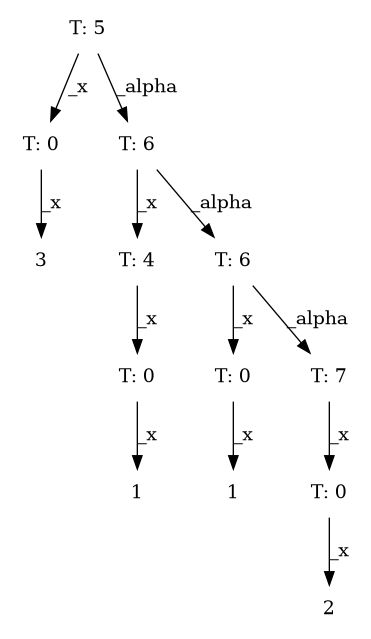
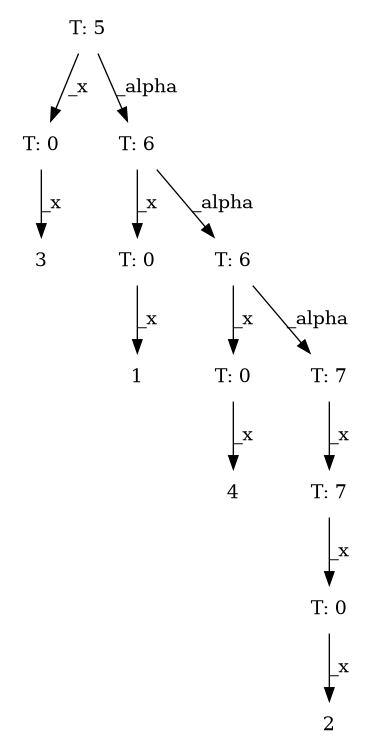
post .git errors. I believe I had just set up structure for the tree constant optimization step. need a new evolution based function that allows the optimization step to follow its own procedure and produce its own survival threshold. this should be possible ripping functionality directly from my pa

diff --git a/src/genetic_algorithm/mutation.py b/src/genetic_algorithm/mutation.py
@@ -3,6 +3,7 @@
 '''
 
 import genetic_algorithm.transforms as transforms
+import genetic_algorithm.population as population
 import genetic_algorithm.evaluation as evaluation
 import genetic_algorithm.visualization as visualization
 
@@ -26,6 +27,9 @@ def branch_ntimes(
 def quarter_forest_evolution(
 	init_forest	:	np.ndarray,
 	x_raw		:	np.ndarray,
+	tree_optim	:	bool	=	True,
+	limit_const_optim	:	bool = False,	
+	const_optim_maxiter	:	int	=	10,
 	iterations	:	int	=	5
 ):
 	
@@ -39,11 +43,25 @@ def quarter_forest_evolution(
 
 	print('entering preloop')
 	iter_forest:list = init_forest
+	chld_forest:list = []
+
 
 	f_size = len(iter_forest)
 	q_size = int(np.floor(f_size/4))
 
+
 	for i in range(iterations):
+
+		if(tree_optim):
+			it = -1
+			if(limit_const_optim):
+				it = const_optim_maxiter
+			chld_forest = optimize_constants(population=chld_forest, iterations=it)
+
+		#bring offspring over to iterating forest
+		for tree in chld_forest:
+			iter_forest.append(tree)
+		chld_forest = []
 
 		p_gen = transforms.forest2features(iter_forest, x_raw)
 		p = pd.DataFrame(p_gen)
@@ -56,24 +74,21 @@ def quarter_forest_evolution(
 		img = visualization.visualize_tree(iter_forest[p_treelist[0]])
 		display(img)
 
-		#identify trees to be kept
-		while(len(p_treelist) > q_size):
-			p_treelist.pop()
+		ordered_forest, ordered_scores = population.sort_forest(iter_forest, p_treelist, p_scorelist)
+		iter_forest = ordered_forest
+		prll_scores = ordered_scores
 
-		#pop all trees not in kept treelist
-		quarter_trees = set(p_treelist)
-		crnt_forest_size = len(iter_forest)
-		for k in range(crnt_forest_size-1,-1,-1):
-			if k not in quarter_trees:
-				iter_forest.pop(k)
+		#identify trees to be kept
+		while(len(iter_forest) > q_size):
+			iter_forest.pop()
 
 		print('popped all lists, adding all children')
 		if(i<iterations-1):
 			#make 3 children for each surviving tree
 			for j in range(q_size):
 
-				for three in [0,1,2]:
-					iter_forest.append(
+				for three_offspring in [0,1,2]:
+					chld_forest.append(
 						branch_ntimes(
 							copy.deepcopy(iter_forest[j]), 
 							int(-np.ceil(np.log(random.random())))
@@ -82,3 +97,16 @@ def quarter_forest_evolution(
 
 	return iter_forest
 		
+
+def optimize_constants(
+	population	:	list,
+	iterations	:	int	=	-1
+)	->	list:
+	
+
+
+
+
+
+
+	return

diff --git a/src/genetic_algorithm/evaluation.py b/src/genetic_algorithm/evaluation.py
@@ -123,11 +123,10 @@ def evaluate_forest(
 	eval_score_list  = []
 	for key in scores_df.index:
 		combined_score = scores_df.loc[key, 'combined']
-		if(combined_score>0):
-			idx = int(key.split('_')[1])
-			if (idx not in feature_idx_list):
-				feature_idx_list.append(idx)
-				eval_score_list.append(combined_score)
+		idx = int(key.split('_')[1])
+		if (idx not in feature_idx_list):
+			feature_idx_list.append(idx)
+			eval_score_list.append(combined_score)
 
 	# 6) identify best signals
 	best_signals = {

diff --git a/src/genetic_algorithm/population.py b/src/genetic_algorithm/population.py
@@ -1,4 +1,6 @@
 from genetic_algorithm.transforms import *
+from typing import Literal
+
 def generate_random_forest(
 	size	:	int	=	100,
 	init_m	:	int =	5
@@ -13,7 +15,12 @@ def generate_random_forest(
 
 	return population
 
-	
+def sort_forest(
+	population	:	list,
+	score_list	:	list,
+	order_list	:	list
+):
+	return [population[i] for i in order_list], [score_list[i] for i in order_list]
 
 def initialize_interdimensional(
 		
